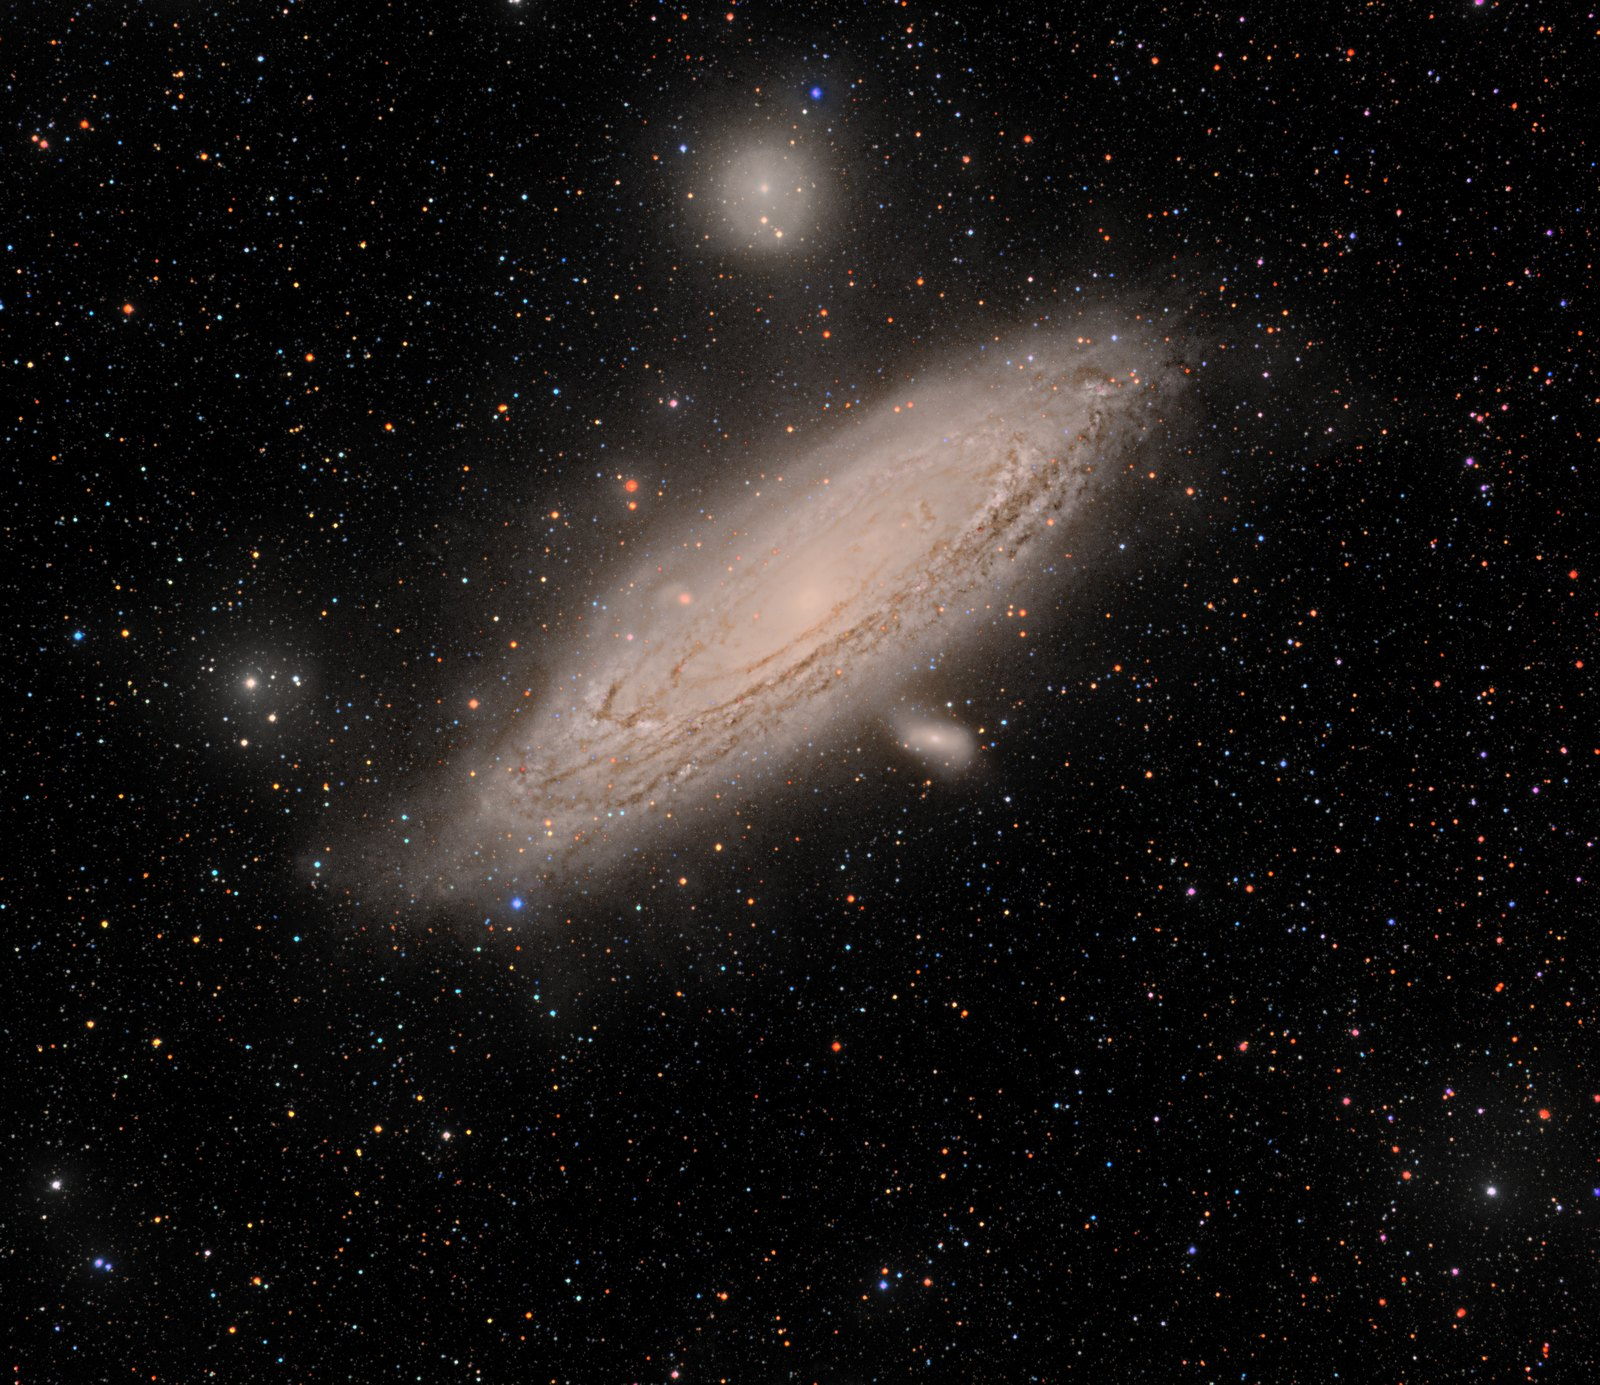
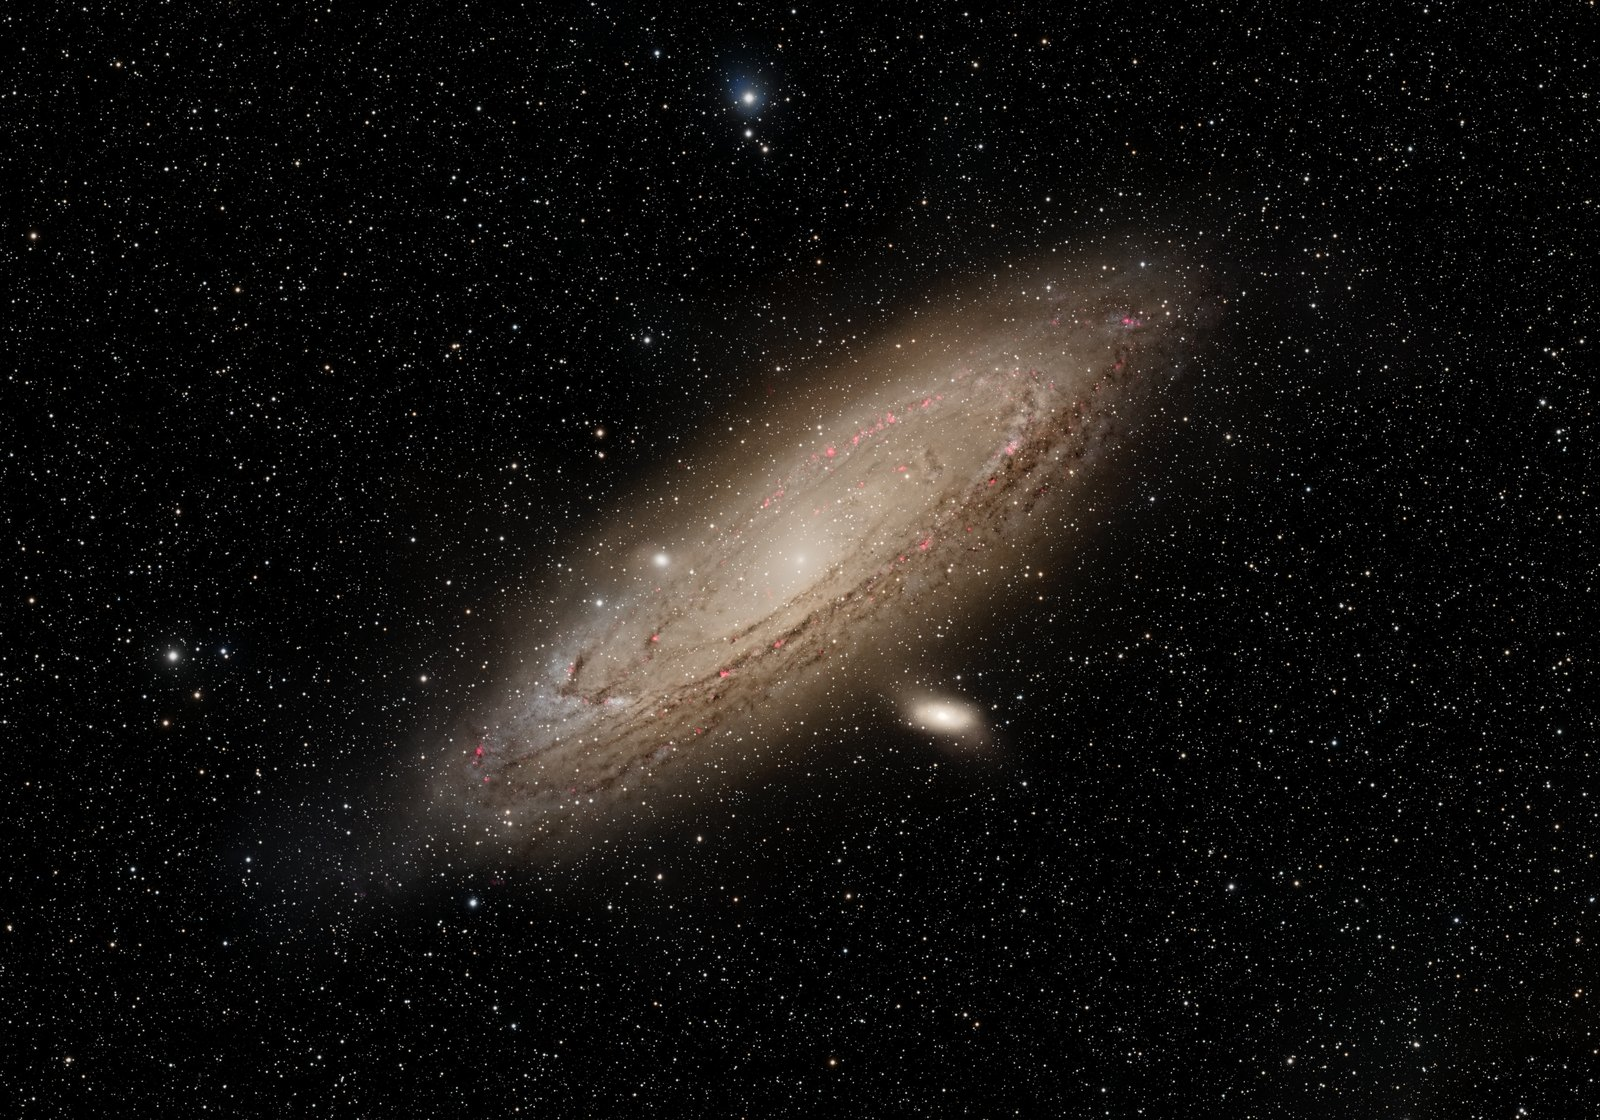
Andromeda deep: new filter-by-filter Telescope Live LRGB + Ha version (no mask); title and credit corrected

diff --git a/index.html b/index.html
@@ -614,8 +614,8 @@ html { scroll-behavior: smooth; }
         <figcaption><b>Soul Nebula, IC 1848</b><span>21 h 50 min · in red and teal or gold and blue</span><span class="credit">Processed by Mark Stanners, original data from Telescope Live</span><span class="sizes"><a class="buy" href="https://buy.stripe.com/cNi6oG1Rke2Badq6ai0Fi0J" rel="noopener">A4 £25</a> <a class="buy" href="https://buy.stripe.com/aFa28q0Ng9Ml1GUbuC0Fi0K" rel="noopener">A3 £45</a></span></figcaption>
       </figure>
       <figure class="print">
-        <img src="img/m31_tl_seestar.jpg" alt="Andromeda, deep (Seestar + Telescope Live)" loading="lazy">
-        <figcaption><b>Andromeda, deep (Seestar + Telescope Live)</b><span class="credit">Seestar data by Mark Stanners, combined with Telescope Live data</span><span class="sizes"><a class="buy" href="https://buy.stripe.com/6oU8wOfIa6A9etG6ai0Fi0L" rel="noopener">A4 £30</a> <a class="buy" href="https://buy.stripe.com/4gMcN47bE9Ml99m2Y60Fi0M" rel="noopener">A3 £50</a> <a class="buy" href="https://buy.stripe.com/bJeeVcanQ9Ml1GUbuC0Fi0N" rel="noopener">A2 £90</a></span></figcaption>
+        <img src="img/m31_tl_seestar.jpg" alt="Andromeda, deep (Telescope Live)" loading="lazy">
+        <figcaption><b>Andromeda, deep (Telescope Live)</b><span>28 h 31 min</span><span class="credit">Processed by Mark Stanners, original data from Telescope Live</span><span class="sizes"><a class="buy" href="https://buy.stripe.com/6oU8wOfIa6A9etG6ai0Fi0L" rel="noopener">A4 £30</a> <a class="buy" href="https://buy.stripe.com/4gMcN47bE9Ml99m2Y60Fi0M" rel="noopener">A3 £50</a></span></figcaption>
       </figure>
     </div>
     <p class="note">Prices include UK postage.</p>
@@ -623,8 +623,8 @@ html { scroll-behavior: smooth; }
     <div class="media">
       <h3>Acrylic and metal</h3>
       <p>Most images can also be made as a face-mounted acrylic or an aluminium-mounted print: deep blacks, ready to hang, no frame needed. Priced on request; as a guide, from about £120 at A3 and £220 at A2.</p>
-      <p class="note">At A3: Heart and Soul, Seestar mosaic; Andromeda, M31; The Pleiades, M45; Elephant&#x27;s Trunk, IC 1396; Garlic Nebula; Horsehead, B33; Horsehead and Flame, full field; Fighting Dragons of Ara, NGC 6188; Running Chicken, IC 2944; Dumbbell Nebula, M27; Ptolemy Cluster, M7; Eagle Nebula, M16; Heart and Soul, deep field with Sh2-200; Heart and Soul, close crop (Telescope Live); Soul Nebula, IC 1848; Andromeda, deep (Seestar + Telescope Live).</p>
-      <p class="note">At A2: Heart and Soul, Seestar mosaic; Garlic Nebula; Horsehead, B33; Horsehead and Flame, full field; Fighting Dragons of Ara, NGC 6188; Running Chicken, IC 2944; Dumbbell Nebula, M27; Ptolemy Cluster, M7; Heart and Soul, deep field with Sh2-200; Heart and Soul, close crop (Telescope Live); Andromeda, deep (Seestar + Telescope Live).</p>
+      <p class="note">At A3: Heart and Soul, Seestar mosaic; Andromeda, M31; The Pleiades, M45; Elephant&#x27;s Trunk, IC 1396; Garlic Nebula; Horsehead, B33; Horsehead and Flame, full field; Fighting Dragons of Ara, NGC 6188; Running Chicken, IC 2944; Dumbbell Nebula, M27; Ptolemy Cluster, M7; Eagle Nebula, M16; Heart and Soul, deep field with Sh2-200; Heart and Soul, close crop (Telescope Live); Soul Nebula, IC 1848; Andromeda, deep (Telescope Live).</p>
+      <p class="note">At A2: Heart and Soul, Seestar mosaic; Garlic Nebula; Horsehead, B33; Horsehead and Flame, full field; Fighting Dragons of Ara, NGC 6188; Running Chicken, IC 2944; Dumbbell Nebula, M27; Ptolemy Cluster, M7; Heart and Soul, deep field with Sh2-200; Heart and Soul, close crop (Telescope Live).</p>
     </div>
     <p class="note pay"><b>Buying a print.</b> Tap a size to pay securely through Stripe by card, Apple Pay or Google Pay; your card details go to Stripe, never to me. There's a box at checkout for the optional legend wording. I print each one to order and email you when it's posted. UK delivery for now; for anywhere else, a size not listed, or acrylic and metal, email me.</p>
     <form class="send" id="ask" novalidate>

diff --git a/site.html b/site.html
@@ -600,8 +600,8 @@ html { scroll-behavior: smooth; }
         <figcaption><b>Soul Nebula, IC 1848</b><span>21 h 50 min · in red and teal or gold and blue</span><span class="credit">Processed by Mark Stanners, original data from Telescope Live</span><span class="sizes"><a class="buy" href="https://buy.stripe.com/cNi6oG1Rke2Badq6ai0Fi0J" rel="noopener">A4 £25</a> <a class="buy" href="https://buy.stripe.com/aFa28q0Ng9Ml1GUbuC0Fi0K" rel="noopener">A3 £45</a></span></figcaption>
       </figure>
       <figure class="print">
-        <img src="img/m31_tl_seestar.jpg" alt="Andromeda, deep (Seestar + Telescope Live)" loading="lazy">
-        <figcaption><b>Andromeda, deep (Seestar + Telescope Live)</b><span class="credit">Seestar data by Mark Stanners, combined with Telescope Live data</span><span class="sizes"><a class="buy" href="https://buy.stripe.com/6oU8wOfIa6A9etG6ai0Fi0L" rel="noopener">A4 £30</a> <a class="buy" href="https://buy.stripe.com/4gMcN47bE9Ml99m2Y60Fi0M" rel="noopener">A3 £50</a> <a class="buy" href="https://buy.stripe.com/bJeeVcanQ9Ml1GUbuC0Fi0N" rel="noopener">A2 £90</a></span></figcaption>
+        <img src="img/m31_tl_seestar.jpg" alt="Andromeda, deep (Telescope Live)" loading="lazy">
+        <figcaption><b>Andromeda, deep (Telescope Live)</b><span>28 h 31 min</span><span class="credit">Processed by Mark Stanners, original data from Telescope Live</span><span class="sizes"><a class="buy" href="https://buy.stripe.com/6oU8wOfIa6A9etG6ai0Fi0L" rel="noopener">A4 £30</a> <a class="buy" href="https://buy.stripe.com/4gMcN47bE9Ml99m2Y60Fi0M" rel="noopener">A3 £50</a></span></figcaption>
       </figure>
     </div>
     <p class="note">Prices include UK postage.</p>
@@ -609,8 +609,8 @@ html { scroll-behavior: smooth; }
     <div class="media">
       <h3>Acrylic and metal</h3>
       <p>Most images can also be made as a face-mounted acrylic or an aluminium-mounted print: deep blacks, ready to hang, no frame needed. Priced on request; as a guide, from about £120 at A3 and £220 at A2.</p>
-      <p class="note">At A3: Heart and Soul, Seestar mosaic; Andromeda, M31; The Pleiades, M45; Elephant&#x27;s Trunk, IC 1396; Garlic Nebula; Horsehead, B33; Horsehead and Flame, full field; Fighting Dragons of Ara, NGC 6188; Running Chicken, IC 2944; Dumbbell Nebula, M27; Ptolemy Cluster, M7; Eagle Nebula, M16; Heart and Soul, deep field with Sh2-200; Heart and Soul, close crop (Telescope Live); Soul Nebula, IC 1848; Andromeda, deep (Seestar + Telescope Live).</p>
-      <p class="note">At A2: Heart and Soul, Seestar mosaic; Garlic Nebula; Horsehead, B33; Horsehead and Flame, full field; Fighting Dragons of Ara, NGC 6188; Running Chicken, IC 2944; Dumbbell Nebula, M27; Ptolemy Cluster, M7; Heart and Soul, deep field with Sh2-200; Heart and Soul, close crop (Telescope Live); Andromeda, deep (Seestar + Telescope Live).</p>
+      <p class="note">At A3: Heart and Soul, Seestar mosaic; Andromeda, M31; The Pleiades, M45; Elephant&#x27;s Trunk, IC 1396; Garlic Nebula; Horsehead, B33; Horsehead and Flame, full field; Fighting Dragons of Ara, NGC 6188; Running Chicken, IC 2944; Dumbbell Nebula, M27; Ptolemy Cluster, M7; Eagle Nebula, M16; Heart and Soul, deep field with Sh2-200; Heart and Soul, close crop (Telescope Live); Soul Nebula, IC 1848; Andromeda, deep (Telescope Live).</p>
+      <p class="note">At A2: Heart and Soul, Seestar mosaic; Garlic Nebula; Horsehead, B33; Horsehead and Flame, full field; Fighting Dragons of Ara, NGC 6188; Running Chicken, IC 2944; Dumbbell Nebula, M27; Ptolemy Cluster, M7; Heart and Soul, deep field with Sh2-200; Heart and Soul, close crop (Telescope Live).</p>
     </div>
     <p class="note pay"><b>Buying a print.</b> Tap a size to pay securely through Stripe by card, Apple Pay or Google Pay; your card details go to Stripe, never to me. There's a box at checkout for the optional legend wording. I print each one to order and email you when it's posted. UK delivery for now; for anywhere else, a size not listed, or acrylic and metal, email me.</p>
     <form class="send" id="ask" novalidate>

diff --git a/tools/crop_m31_deep.py b/tools/crop_m31_deep.py
@@ -1,3 +1,4 @@
+# SUPERSEDED 1 Nov 2026: img/m31_tl_seestar.jpg is now the Telescope Live filter-by-filter Andromeda (TL_M31_lrgb\m31_merge2.py). Don't rerun this.
 # One-off (1 Nov 2026): remove the grey crescent reflection ghost from Andromeda deep (Seestar + Telescope Live) by
 # trimming the top 532 px (the ghost reaches about y = 480 in the full-size file; the corner haze goes with it).
 # Writes the cropped 16-bit TIFF beside the original, rebuilds img/m31_tl_seestar.jpg and updates print_sizes.csv.
